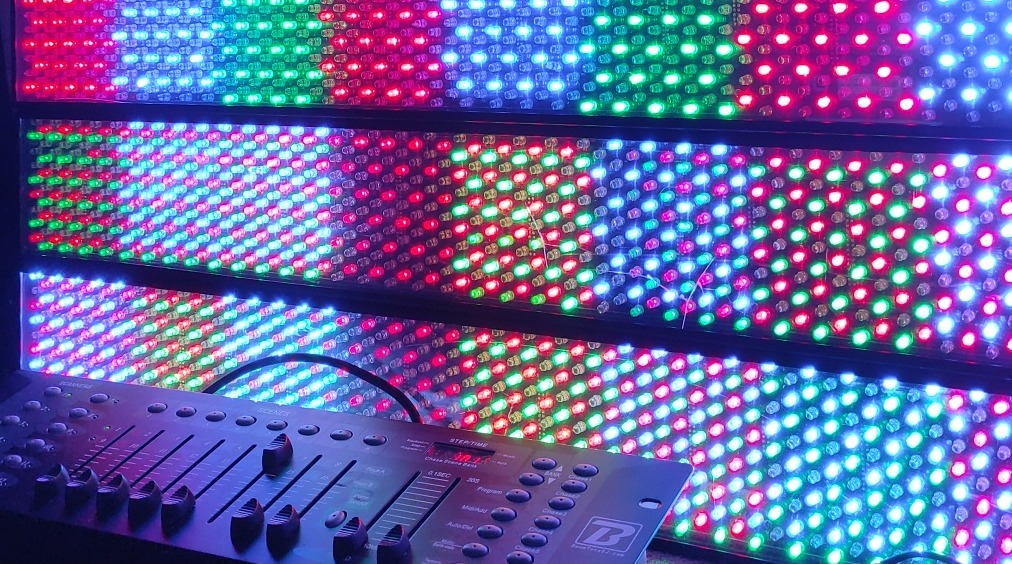
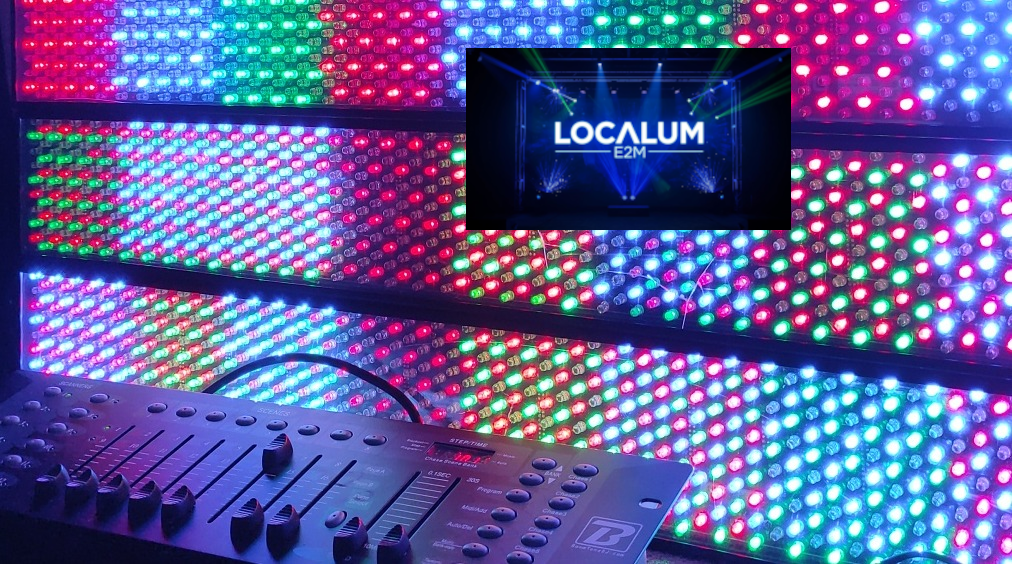
Hero

Changed region(s): [[0.4595, 0.0603, 0.7964, 0.422]]

diff --git a/assets/styles.css b/assets/styles.css
@@ -3169,26 +3169,6 @@ html[data-theme="light"] .tag {
 .home-hero__visual-placeholder {
   background: linear-gradient(135deg, rgba(91, 124, 250, 0.35), rgba(126, 242, 204, 0.35));
 }
-.home-hero__overlay-logo {
-  position: absolute;
-  top: clamp(1.2rem, 3vw, 1.8rem);
-  right: clamp(1.2rem, 3vw, 1.8rem);
-  padding: 0.6rem 1rem;
-  border-radius: 999px;
-  background: rgba(5, 8, 18, 0.82);
-  border: 1px solid rgba(126, 242, 204, 0.3);
-  box-shadow: 0 22px 32px rgba(6, 12, 26, 0.52);
-  display: inline-flex;
-  align-items: center;
-  justify-content: center;
-  max-width: clamp(120px, 16vw, 160px);
-}
-.home-hero__overlay-logo img {
-  display: block;
-  width: 100%;
-  height: auto;
-  filter: drop-shadow(0 8px 18px rgba(0, 0, 0, 0.5));
-}
 
 .section-header--center {
   text-align: center;

diff --git a/index.md b/index.md
@@ -14,14 +14,6 @@ description: Location de sonorisation et jeux de lumière en Gironde. Packs prê
     {% assign hero_src = hero_image | relative_url %}
   {% endif %}
 {% endif %}
-{% assign hero_overlay_logo = hero.overlay_logo %}
-{% if hero_overlay_logo %}
-  {% if hero_overlay_logo contains '://' %}
-    {% assign hero_overlay_logo_src = hero_overlay_logo %}
-  {% else %}
-    {% assign hero_overlay_logo_src = hero_overlay_logo | relative_url %}
-  {% endif %}
-{% endif %}
 
 <section class="home-hero">
   <div class="home-hero__sky" aria-hidden="true">
@@ -75,11 +67,6 @@ description: Location de sonorisation et jeux de lumière en Gironde. Packs prê
         <img src="{{ hero_src }}" alt="{{ hero.title }}">
         {% else %}
         <div class="home-hero__visual-placeholder" aria-hidden="true"></div>
-        {% endif %}
-        {% if hero_overlay_logo_src %}
-        <div class="home-hero__overlay-logo">
-          <img src="{{ hero_overlay_logo_src }}" alt="{{ hero.overlay_logo_alt | default: site.title }}">
-        </div>
         {% endif %}
       </div>
     </div>
